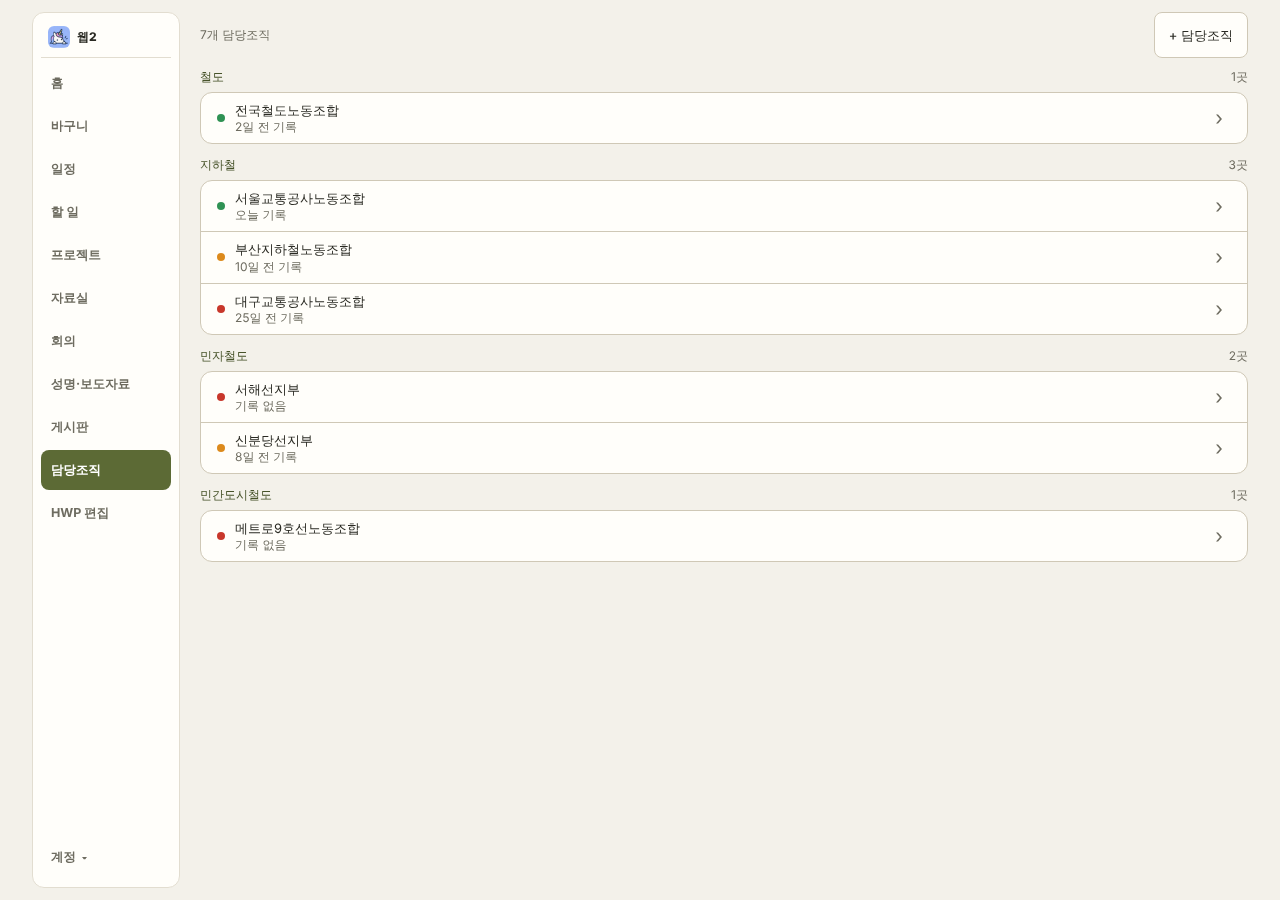
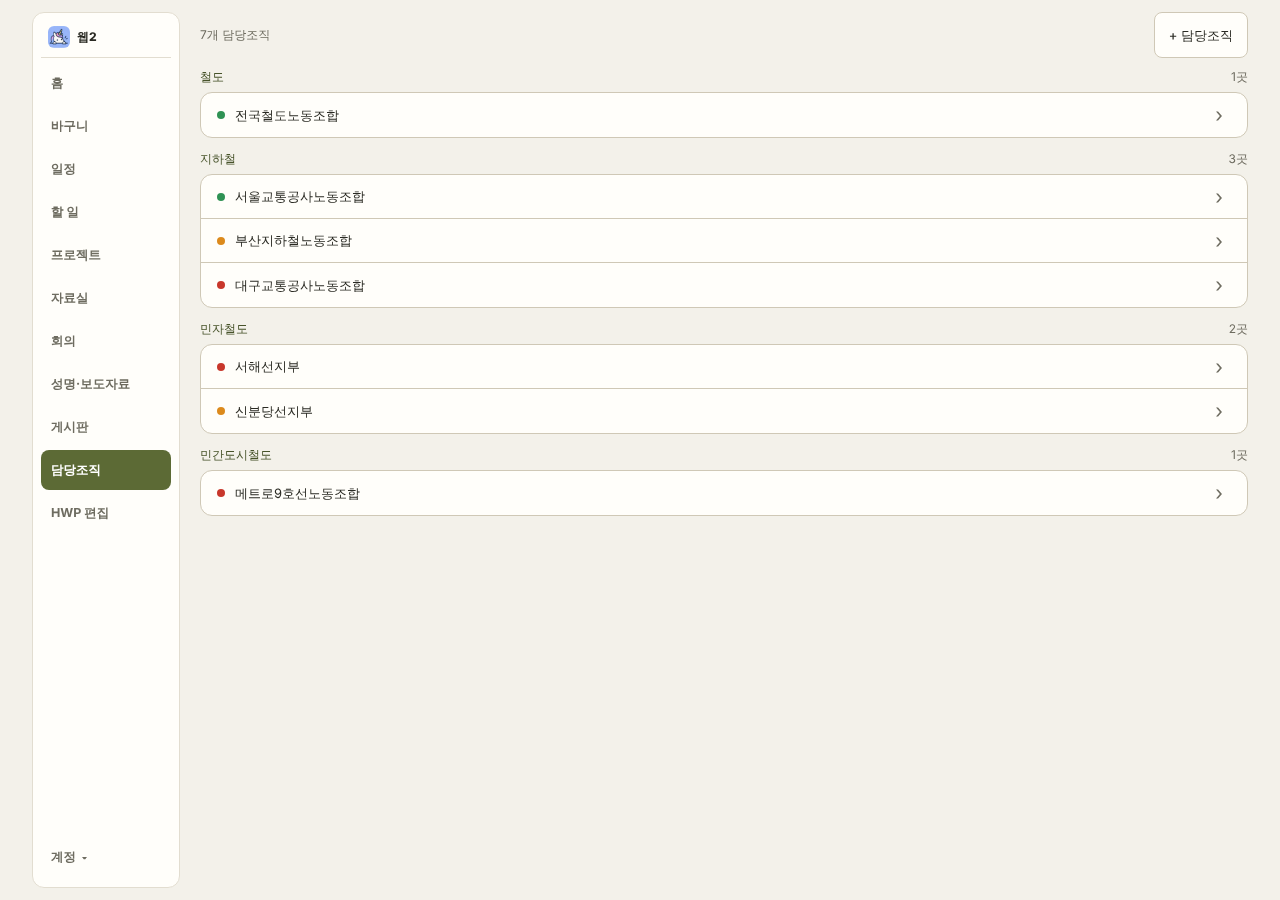
[UI-디자인기준 3/3 1부] 사용자 결정 반영: 담당조직 이름 한 줄·할 일 수 뺌, Edge 배포 보류
- 담당조직 목록: 이름 아래 보조 줄("N일 전 기록")과 오른쪽 할 일 수(✓n)를 빼고 이름 한 줄만, 오른쪽은 › 만, 줄 44px.
  왼쪽 마지막 기록 점(7일 이내 초록·8~20일 주황·21일 이상/없음 빨강)은 그대로, 같은 말을 줄의 화면 낭독 이름에 넣음.
  목록의 Google 할 일·연결 조회를 뺌(날짜 묶음 읽기 1회만)
- 원장: drive-summary Edge 배포 보류(다음 Edge 배포 때 함께), 회의 색 점 유지 기록
- docs/basket-weekly-handoff.md 옛 버튼 이름을 [분류 결과 입력]·[분류 요청]으로(문서만)
- 검사·담당조직 캡처(390·1280) 갱신

Claude-Session: https://claude.ai/code/session_01R4vr5CZzfVNWipjyZcGBR2

Changed region(s): [[0.1562, 0.0933, 0.3125, 0.6222], [0.9375, 0.4978, 0.9688, 0.5289]]

diff --git a/app/suborganizations.js b/app/suborganizations.js
@@ -25,23 +25,19 @@ function installModals(){if(document.querySelector('#soEditModal'))return;docume
 // TASK-조직순서 / D-4c: one surface box per shared organization group.
 // UI-디자인기준 3/3: the list heading is the group name with "N곳" on the right.
 const ordered=(list,item,headings=false)=>window.KPTUOrganizationOrder.groups(list).map(g=>`<div class="so-org-group">${headings?`<div class="so-group-heading"><span>${esc(window.KPTUOrganizationOrder.groupName(g[0]))}</span><span class="so-group-count">${g.length}곳</span></div><div class="so-group-card">`:''}${g.map(item).join('')}${headings?'</div>':''}</div>`).join('');
-function renderTeam(){const box=document.querySelector('#soOrganizationList');if(!box)return;const mine=myOrganizations(),count=document.querySelector('#soOrgCount');if(count)count.textContent=mine.length?`${mine.length}개 담당조직`:'담당조직 없음';box.innerHTML=mine.length?ordered(mine,o=>`<article class="so-card kptu-list-row" data-so-org="${esc(o.id)}" data-ps-workplace-org="${esc(o.id)}" role="button" tabindex="0" aria-label="${esc(o.name)} 상세 열기"><div class="so-card-main kptu-list-row-main"><span class="so-dot" data-so-dot="${esc(o.id)}" aria-hidden="true"></span><span class="so-name-wrap"><h4 class="kptu-list-name">${esc(o.name)}</h4><span class="so-sub" data-so-sub="${esc(o.id)}"></span></span><span class="so-summary kptu-list-summary" data-so-summary="${esc(o.id)}"></span><span class="so-chevron kptu-list-chevron" aria-hidden="true">›</span></div></article>`,true):'<div class="empty compact">등록된 담당조직이 없습니다.</div>';window.dispatchEvent(new CustomEvent('kptu:suborganizations-rendered',{detail:{count:mine.length}}))}
-// Names render before optional metadata. One overview + batched confirmed links, never one linked request per organization.
+function renderTeam(){const box=document.querySelector('#soOrganizationList');if(!box)return;const mine=myOrganizations(),count=document.querySelector('#soOrgCount');if(count)count.textContent=mine.length?`${mine.length}개 담당조직`:'담당조직 없음';box.innerHTML=mine.length?ordered(mine,o=>`<article class="so-card kptu-list-row" data-so-org="${esc(o.id)}" data-ps-workplace-org="${esc(o.id)}" role="button" tabindex="0" aria-label="${esc(o.name)} 상세 열기"><div class="so-card-main kptu-list-row-main"><span class="so-dot" data-so-dot="${esc(o.id)}" aria-hidden="true"></span><h4 class="kptu-list-name">${esc(o.name)}</h4><span class="so-chevron kptu-list-chevron" aria-hidden="true">›</span></div></article>`,true):'<div class="empty compact">등록된 담당조직이 없습니다.</div>';window.dispatchEvent(new CustomEvent('kptu:suborganizations-rendered',{detail:{count:mine.length}}))}
+// Names render before optional metadata: one batched read of the latest record dates, never one request per organization.
 function summaryCurrent(run,user,workspace){const c=rt.context?.read?.();return run===summaryRun&&soUser?.id===user&&soWorkspace===workspace&&(!rt.context?.read||(c?.user?.id===user&&c?.workspace?.id===workspace))&&(!window.KPTURouter||window.KPTURouter.current==='team')}
-function paintTaskCounts(tasks,links,g){
- const pending=new Map(tasks.filter(t=>t.status!=='completed').map(t=>[t.id,t])),by=new Map();
- for(const l of links){if(l.status!=='confirmed'||!l.organization_id||!pending.has(l.google_task_id))continue;if(!by.has(l.organization_id))by.set(l.organization_id,new Set());by.get(l.organization_id).add(l.google_task_id)}
- document.querySelectorAll('[data-so-summary]').forEach(box=>{box.querySelector('.so-task-count')?.remove();const ids=by.get(box.dataset.soSummary);if(!ids?.size)return;const overdue=[...ids].some(id=>g.isOverdue(pending.get(id)));box.insertAdjacentHTML('afterbegin',`<span class="so-task-count kptu-list-task-count${overdue?' so-overdue kptu-list-overdue':''}" aria-label="미완료 할 일 ${ids.size}개${overdue?', 기한 지남 포함':''}"><svg viewBox="0 0 24 24" aria-hidden="true"><path d="m5 12 4 4L19 6"/></svg>${ids.size}</span>`)});
-}
-// UI-디자인기준 3/3: the line under the name says how long ago the last record was (KST days), and the dot left of the name
-// shows it as a color: within 7 days green, 8~20 days orange, 21 days or more (or no record) red. Painted only after the read.
+// UI-디자인기준 3/3: one line per organization (2026-10-16 user decision: no second line, no task count). The dot left of the name
+// shows how long ago the last record was (KST days): within 7 days green, 8~20 days orange, 21 days or more (or no record) red.
+// Painted only after the read. The same words go into the row's accessible name, so the color is not the only signal.
 const kstDay=ms=>new Date(ms+9*3600000).toISOString().slice(0,10);
 function recency(at){if(!at)return {level:'stale',text:'기록 없음'};const days=Math.max(0,Math.round((Date.parse(kstDay(Date.now()))-Date.parse(kstDay(Date.parse(at))))/86400000));return {level:days<=7?'fresh':days<=20?'warn':'stale',text:days?`${days}일 전 기록`:'오늘 기록',days}}
 function paintRecency(latest){
- document.querySelectorAll('[data-so-sub]').forEach(sub=>{const id=sub.dataset.soSub,at=latest.get(id),r=recency(at),dot=sub.closest('.so-card')?.querySelector('[data-so-dot]');
-  sub.innerHTML=at?`<time datetime="${esc(at)}">${esc(r.text)}</time>`:esc(r.text);if(dot)dot.dataset.soRecency=r.level});
+ document.querySelectorAll('[data-so-dot]').forEach(dot=>{const id=dot.dataset.soDot,at=latest.get(id),r=recency(at),row=dot.closest('.so-card'),name=row?.querySelector('.kptu-list-name')?.textContent||'';
+  dot.dataset.soRecency=r.level;if(at)dot.dataset.soAt=at;else delete dot.dataset.soAt;row?.setAttribute('aria-label',`${name}, ${r.text}, 상세 열기`)});
 }
-function clearRecency(){document.querySelectorAll('[data-so-sub]').forEach(sub=>sub.replaceChildren());document.querySelectorAll('[data-so-dot]').forEach(dot=>delete dot.dataset.soRecency)}
+function clearRecency(){document.querySelectorAll('[data-so-dot]').forEach(dot=>{delete dot.dataset.soRecency;delete dot.dataset.soAt;const row=dot.closest('.so-card'),name=row?.querySelector('.kptu-list-name')?.textContent||'';row?.setAttribute('aria-label',`${name} 상세 열기`)})}
 function loadSummaries(){
  if(window.KPTURouter&&window.KPTURouter.current!=='team')return Promise.resolve();
  if(summaryFlight){summaryDirty=true;return summaryFlight;}
@@ -56,13 +52,6 @@ async function readSummaries(){
  if(window.KPTURouter&&window.KPTURouter.current!=='team')return;
  const run=++summaryRun,user=soUser?.id,workspace=soWorkspace,ids=myOrganizations().map(o=>o.id);if(!ids.length)return;
  const current=()=>summaryCurrent(run,user,workspace);
- const taskRead=async()=>{
-  if(!window.KPTUGoogleTasks)await import('./google-tasks.js?v=37');
-  const g=window.KPTUGoogleTasks;if(!current()||!g?.listTasks)return;
-  const fill=async d=>{if(d?.owner!==user)return;if(d.status==='disconnected'){if(current())paintTaskCounts([],[],g);return}const links=await g.readLinks(d.tasks);if(current())paintTaskCounts(d.tasks,links,g)};
-  const cached=g.peekTasks();if(cached?.owner===user)await fill(cached).catch(()=>{});
-  const d=await g.listTasks();await fill(d);
- };
  const updateRead=async()=>{
   // Reuse the owner/workspace-checked confirmed note reader. Both sources
   // must succeed before publishing a latest date; neither write time is used.
@@ -85,7 +74,7 @@ async function readSummaries(){
   if(!current())return;
   paintRecency(latest);
  };
- await Promise.allSettled([taskRead(),updateRead()]);
+ await updateRead().catch(()=>{});
 }
 function checks(prefix,selected=[],source=soOrganizations){const set=new Set(selected),list=window.KPTUOrganizationOrder.forPicker(source,selected);return list.length?`<div class="so-org-checks">${ordered(list,o=>{const names=effectiveNames(o),planned=!actualNames(o).length&&!!o.default_assignee_name;return `<label class="so-org-check"><input type="checkbox" data-${prefix}-org="${esc(o.id)}" ${set.has(o.id)?'checked':''}><span>${esc(o.name)}${names.length?`<small> · 담당 ${esc(names.join(', '))}${planned?' (계정 연결 전)':''}</small>`:''}</span></label>`})}</div>`:'<div class="updated">표시할 담당조직이 없습니다.</div>'}
 function renderEventCreate(selected=[]){const box=document.querySelector('#soEventOrgChecks');if(box)box.innerHTML=checks('event',selected,myOrganizations())}
@@ -107,7 +96,7 @@ let soGoogleHiddenOrgIds=[];
 window.__KPTU_EDIT_GOOGLE_ORGS__=selected=>{installGoogleEditSelector();const box=document.querySelector('#soGoogleEditOrgChecks');if(box){const mine=myOrganizations();soGoogleHiddenOrgIds=selected.filter(id=>!mine.some(o=>o.id===id));box.innerHTML=checks('google-edit',selected,mine)}};
 window.__KPTU_SELECTED_GOOGLE_EDIT_ORGS__=()=>[...soGoogleHiddenOrgIds,...[...document.querySelectorAll('[data-google-edit-org]:checked')].map(x=>x.dataset.googleEditOrg)];
 function resetCreate(){document.querySelectorAll('[data-event-org]').forEach(x=>x.checked=false)}
-function bind(){if(soBound)return;soBound=true;window.addEventListener('kptu:basket-links-changed',()=>{void loadSummaries()});window.addEventListener('kptu:google-tasks-changed',()=>{void loadSummaries()});window.addEventListener('kptu:api-saved',e=>{if(e.detail?.path?.includes('/app_suborganization_updates')||(e.detail?.path?.includes('/functions/v1/google-tasks')&&['link','unlink'].includes(e.detail?.action)))void loadSummaries()});document.querySelector('#soAddOrg')?.addEventListener('click',()=>openEdit());document.querySelector('#soSaveOrg')?.addEventListener('click',saveOrg);document.querySelector('#soSaveAssignees')?.addEventListener('click',saveAssignees);document.addEventListener('keydown',e=>{const card=e.target.closest?.('[data-ps-workplace-org]');if(card&&(e.key==='Enter'||e.key===' ')){e.preventDefault();card.click()}});document.addEventListener('click',e=>{const closeBtn=e.target.closest('[data-so-close]');if(closeBtn){close(closeBtn.dataset.soClose);return}const edit=e.target.closest('[data-so-edit]');if(edit){openEdit(edit.dataset.soEdit);return}const del=e.target.closest('[data-so-delete]');if(del){removeOrg(del.dataset.soDelete);return}const assign=e.target.closest('[data-so-assign]');if(assign){openAssign(assign.dataset.soAssign);return}if(e.target.closest('#newEventBtn,#homeAddEvent,#calendarQuickAdd'))resetCreate();},true);window.addEventListener('kptu:view-changed',e=>{summaryRun++;summaryFlight=null;summaryDirty=false;if(e.detail?.view==='team')load().catch(console.error)});window.addEventListener('kptu:session-changed',()=>{summaryRun++;summaryFlight=null;summaryDirty=false;document.querySelectorAll('[data-so-summary]').forEach(box=>box.replaceChildren());clearRecency();context().then(ok=>ok&&load()).catch(console.error)})}
+function bind(){if(soBound)return;soBound=true;window.addEventListener('kptu:basket-links-changed',()=>{void loadSummaries()});window.addEventListener('kptu:api-saved',e=>{if(e.detail?.path?.includes('/app_suborganization_updates'))void loadSummaries()});document.querySelector('#soAddOrg')?.addEventListener('click',()=>openEdit());document.querySelector('#soSaveOrg')?.addEventListener('click',saveOrg);document.querySelector('#soSaveAssignees')?.addEventListener('click',saveAssignees);document.addEventListener('keydown',e=>{const card=e.target.closest?.('[data-ps-workplace-org]');if(card&&(e.key==='Enter'||e.key===' ')){e.preventDefault();card.click()}});document.addEventListener('click',e=>{const closeBtn=e.target.closest('[data-so-close]');if(closeBtn){close(closeBtn.dataset.soClose);return}const edit=e.target.closest('[data-so-edit]');if(edit){openEdit(edit.dataset.soEdit);return}const del=e.target.closest('[data-so-delete]');if(del){removeOrg(del.dataset.soDelete);return}const assign=e.target.closest('[data-so-assign]');if(assign){openAssign(assign.dataset.soAssign);return}if(e.target.closest('#newEventBtn,#homeAddEvent,#calendarQuickAdd'))resetCreate();},true);window.addEventListener('kptu:view-changed',e=>{summaryRun++;summaryFlight=null;summaryDirty=false;if(e.detail?.view==='team')load().catch(console.error)});window.addEventListener('kptu:session-changed',()=>{summaryRun++;summaryFlight=null;summaryDirty=false;clearRecency();context().then(ok=>ok&&load()).catch(console.error)})}
 async function boot(){if(!rt)return false;if(!(await context()))return false;installTeam();installModals();installEventCreate();installGoogleEditSelector();bind();await load();if(document.querySelector('#ciGoogleModal:not(.hidden)'))window.__KPTU_EDIT_GOOGLE_ORGS__(window.__KPTU_GOOGLE_EDIT_ORGS_PENDING__||[]);window.__KPTU_RELOAD_SUBORGANIZATIONS__=()=>load();return true}
 window.__KPTU_SUBORGANIZATIONS_READY__=boot().catch(err=>{console.error('suborganizations init',err);return false});
 })();

diff --git a/app/ui-standard.css b/app/ui-standard.css
@@ -199,7 +199,7 @@
 #appView #teamView #soOrganizationList .kptu-list-name,#appView #libraryView #documentList .lu-row-title,#appView #meetingsView #meetingList .meeting-list-title h3{
   font-size:var(--ds-text-row); font-weight:var(--ds-weight-regular); line-height:1.4;
 }
-#appView #teamView .so-sub,#appView #libraryView .lu-row-meta,#appView #meetingsView #meetingList .meeting-list-row p{ font-size:var(--ds-text-meta); color:var(--kptu-muted); }
+#appView #libraryView .lu-row-meta,#appView #meetingsView #meetingList .meeting-list-row p{ font-size:var(--ds-text-meta); color:var(--kptu-muted); }
 
 /* 버튼: 높이 하나·모서리 8px·13px/500·흰 바탕 + 0.5px 테두리(기본). 목록 행·⋯ 아이콘은 버튼 모양이 아니므로 뺀다.
    목록 필터(프로젝트·자료 종류·회의명)는 홈 빠른 입력 탭과 같은 버튼 모양. */
@@ -244,20 +244,20 @@
 #appView #libraryView .lu-file-kind[data-lu-kind="doc"]{ color:var(--ds-file-doc-ink); background:var(--ds-file-doc-soft); }
 #appView #libraryView .lu-file-kind[data-lu-kind="ppt"]{ color:var(--ds-file-ppt-ink); background:var(--ds-file-ppt-soft); }
 
-/* 담당조직 목록: 묶음 제목은 테마 색 12px, 오른쪽에 "N곳". 이름 왼쪽 8px 점은 마지막 기록이 며칠 전인지(KST)를 색으로:
-   7일 이내 초록·8~20일 주황·21일 이상 또는 기록 없음 빨강. 읽기 전에는 점을 비워 둔다. 이름 아래 보조 줄 "N일 전 기록". */
+/* 담당조직 목록(2026-10-16 사용자 결정): 이름 한 줄(보조 줄·할 일 수 없음), 오른쪽은 › 만, 줄 높이 44px.
+   묶음 제목은 테마 색 12px, 오른쪽에 "N곳". 이름 왼쪽 8px 점은 마지막 기록이 며칠 전인지(KST)를 색으로:
+   7일 이내 초록·8~20일 주황·21일 이상 또는 기록 없음 빨강. 읽기 전에는 점을 비워 둔다. */
 #appView #teamView .so-group-heading{ display:flex; align-items:baseline; justify-content:space-between; gap:8px; font-size:var(--ds-text-meta); color:var(--ds-section-ink); }
 #appView #teamView .so-group-heading .so-group-count{ color:var(--kptu-muted); }
 #appView #teamView #soOrgCount{ font-size:var(--ds-text-meta); }
-#appView #teamView #soOrganizationList .kptu-list-row-main{ grid-template-columns:8px minmax(0,1fr) auto 24px; gap:10px; }
-#appView #teamView .so-name-wrap{ display:grid; min-width:0; }
-#appView #teamView .so-sub{ min-height:16px; line-height:16px; white-space:nowrap; overflow:hidden; text-overflow:ellipsis; }
+#appView #teamView #soOrganizationList .kptu-list-row{ box-sizing:border-box; display:grid; align-items:center; min-height:var(--kptu-touch-target,44px); padding-top:0; padding-bottom:0; }
+#appView #teamView #soOrganizationList .kptu-list-row-main{ grid-template-columns:8px minmax(0,1fr) 24px; gap:10px; }
 #appView #teamView .so-dot{ width:8px; height:8px; border-radius:50%; box-sizing:border-box; border:var(--ds-line-width) solid var(--ds-line); }
 #appView #teamView .so-dot[data-so-recency]{ border:0; }
 #appView #teamView .so-dot[data-so-recency="fresh"]{ background:var(--ds-recency-fresh); }
 #appView #teamView .so-dot[data-so-recency="warn"]{ background:var(--ds-recency-warn); }
 #appView #teamView .so-dot[data-so-recency="stale"]{ background:var(--ds-recency-stale); }
 @media(max-width:650px){
-  #appView #teamView #soOrganizationList .kptu-list-row-main{ grid-template-columns:8px minmax(0,1fr) auto 20px; }
+  #appView #teamView #soOrganizationList .kptu-list-row-main{ grid-template-columns:8px minmax(0,1fr) 20px; }
   #appView #teamView .so-team-actions #soAddOrg{ min-height:var(--ds-control-height); padding:4px var(--ds-control-pad-x); font-size:var(--ds-text-button); }
 }

diff --git a/docs/review/ui-design-standard-3-3a/README.md b/docs/review/ui-design-standard-3-3a/README.md
@@ -4,7 +4,7 @@
 
 | 파일 | 화면 |
 | --- | --- |
-| `team-*` | 담당조직 목록(이름 왼쪽 마지막 기록 점, 아래 "N일 전 기록", 묶음 제목 오른쪽 "N곳") |
+| `team-*` | 담당조직 목록(2026-10-16 결정 반영: 이름 한 줄, 왼쪽 마지막 기록 점, 오른쪽은 › 만, 묶음 제목 오른쪽 "N곳") |
 | `library-*` | 자료실(종류 색: PDF 빨강·HWP 파랑·엑셀 초록·워드 남색·PPT 주황·나머지 회색. "확장자 없음" 두 줄은 Drive 파일 종류로 판단) |
 | `meetings-*` | 회의(상자 안 줄 단위, 회의 색은 이름 앞 점) |
 | `projects-*` | 프로젝트 목록(오른쪽은 D-day 알약 하나) |

diff --git a/docs/basket-weekly-handoff.md b/docs/basket-weekly-handoff.md
@@ -29,9 +29,9 @@
 
 3. 돌려줄 것
 - 원장에 쓴 것 / 물어볼 것 / 버린 것을 메모 번호로 정리
-- 마지막에 Web2 [AI 정리 결과 넣기]에 붙여 넣을 정리 결과(기존 형식)
+- 마지막에 Web2 [분류 결과 입력]에 붙여 넣을 정리 결과(기존 형식)
 
 메모 원문은 고치지 말고, 내가 쓰지 않은 사실은 추측해서 넣지 마.
 ```
 
-맨 끝 "기존 형식"에는 구현 때 현재 [AI에게 맡기기]가 쓰는 정리 결과 형식 설명을 그대로 이어 붙인다.
+맨 끝 "기존 형식"에는 구현 때 현재 [분류 요청]이 쓰는 정리 결과 형식 설명을 그대로 이어 붙인다.
